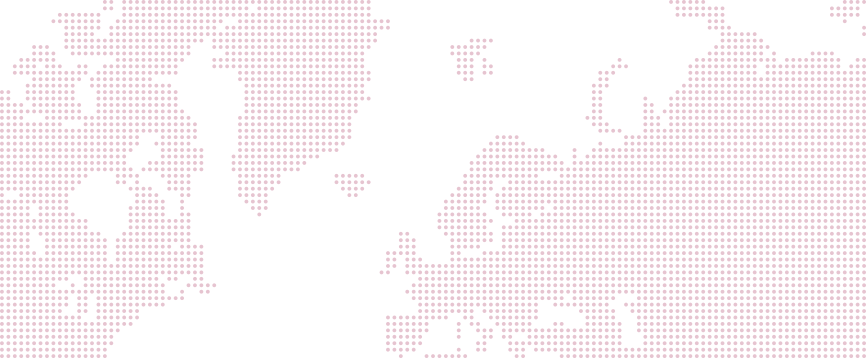
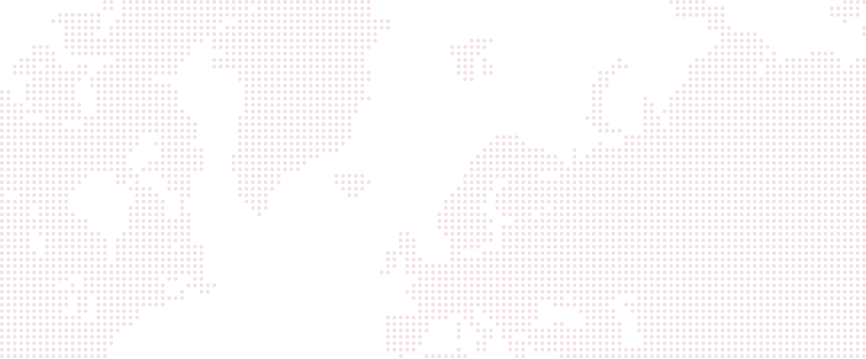
mobile

diff --git a/mobile/css/style.css b/mobile/css/style.css
@@ -18,6 +18,7 @@
   position: relative;
 }
 
+/*
 #page h1{
   text-indent: -9999px;
   background: url('../images/oka.png')center no-repeat;
@@ -25,7 +26,26 @@
   padding: 0;
   height: 78px;
   position: relative;
-  top: 30px;
+  top: 140px;
+}
+*/
+#page{
+  text-align: center;
+  color: white;
+}
+#page p{
+  font-size: 18px;
+  text-transform: uppercase;
+  margin-top: 10px;
+  letter-spacing: 1px;
+}
+#page p span{
+  display: block;
+  margin-top: 5px;
+}
+#page h1{
+  margin: 0;
+  padding: 0;
 }
 body{
   font-family: "proxima-nova", helvetica, arial, sans-serif;
@@ -44,7 +64,7 @@ body, html{
   -moz-background-size: cover;
   -o-background-size: cover;
   background-size: cover;
-  height: 140px;
+  padding: 120px 0;
 }
 #page a{
   width: 50%;
@@ -63,10 +83,13 @@ body, html{
   text-decoration: none;
 }
 #page a:first-of-type{
-  border-right: 1px solid #white !important;
+  border-right: 1px solid #aaaaaa !important;
 }
 .wrapper{
   background: url('../images/map-home.png') no-repeat center center; 
+}
+.wrapper:last-of-type{
+  background: url('../images/twitter-home.png') no-repeat center center;
 }
 .wrapper a span{
   font-size: 21px;
@@ -84,7 +107,7 @@ body, html{
   }
   #page a:first-of-type{
     border-right: 0px solid transparent !important;
-    border-bottom: 1px solid white;
+    border-bottom: 1px solid #aaaaaa;
   }
 }
 
@@ -104,9 +127,10 @@ h2{
   font-family: "kepler-std-extended", helvetica, arial, sans-serif;
   text-align: center;
   font-size: 21px;
-  font-weight: 300;
+  font-weight: 400;
   color: #f08c6d;
   padding: 40px 0;
+  background: url('../images/map-home.png') no-repeat;;
 }
 
 .btnstyle

diff --git a/mobile/index.php b/mobile/index.php
@@ -19,15 +19,16 @@
     <div id="page">
     
       <div class="wrapperH1">
-        <h1>Lorem ipsum</h1>
+        <h1><img src="images/oka.png" alt="Oka"/></h1>
+        <p>Une histoire de café <span>À partager</span></p>
       </div>
       
       <div class="wrapper">
         <a href="slider/index.html">map <span>Découvrez les cafés à proximité de votre ville.</span></a>
       </div>
-      
-      <a href="twitter/index.php">twitter</a>
-      
+      <div class="wrapper">
+        <a href="twitter/index.php">twitter <span>Partagez votre café du matin.</span></a>
+      </div>
     
     </div><!-- *** END PAGE *** -->
     
